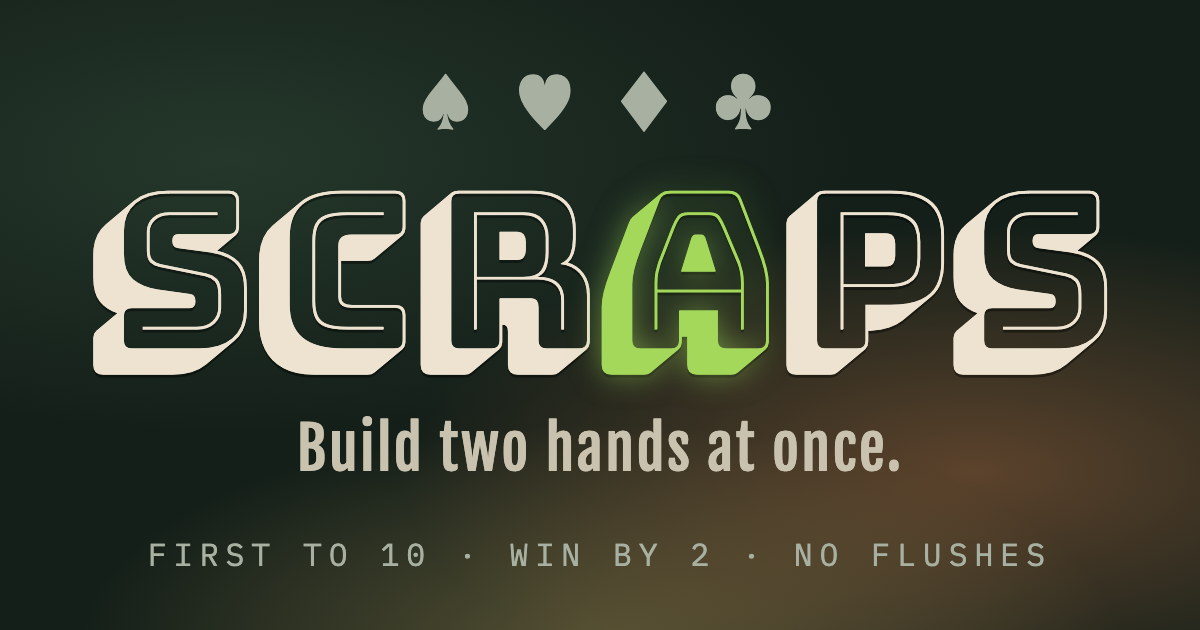
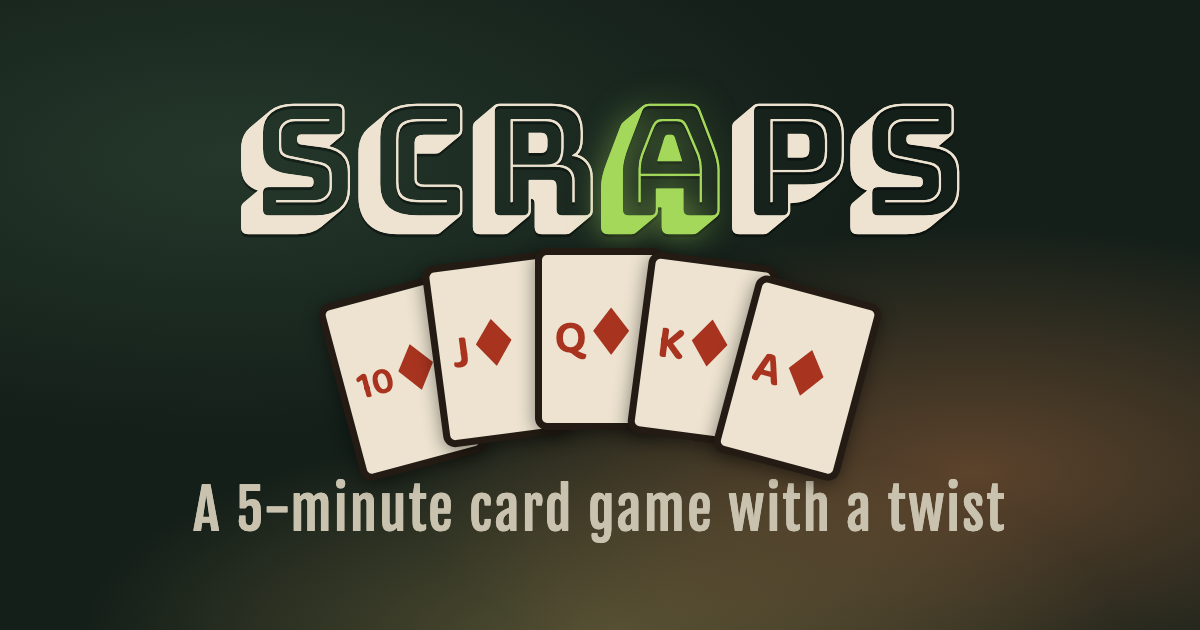
Stan's metadata copy, a hand on the share card, and win score at 10
Title is now "SCRAPS - Poker with two hands at once.", description
"This turn's discards are next turn's hand." The card's rules line is
gone — his call, "boring rules": a share card gets about a second and
the win condition is not the interesting part. In its place, a fanned
hand drawn with the same geometry and inks as the game's own
PlayingCard, under the line "A 5-minute card game with a twist".

The hand is a royal flush of diamonds, which SCRAPS does not recognise
— flushes are never valid here. Flagged before building and chosen
anyway, for the reason it was offered: it is the most legible card-game
image there is. The valid near-identical alternative (same ranks, mixed
suits, a straight, and actually the best hand in this game) stays in the
generator as HAND_STRAIGHT, one constant away.

Two things the new copy broke, caught before they shipped:

- The title now uses a hyphen, not an em dash, and WORDMARK was derived
  by splitting on the em dash. It silently took the WHOLE title as the
  product name, which would have set "SCRAPS - Poker with two hands at
  once." in Bungee Shade across the card and written it into robots.txt
  and llms.txt as the game's name. Splits on either separator now, and
  the hyphen rename is caught in six places.
- The first render put the strapline through the fan: the outer cards
  are rotated AND pushed down, so the lowest painted corner sits below
  where flex thinks the row ends. Gap now sized against the real droop.
[…]

Changed region(s): [[0.0617, 0.1206, 0.925, 0.9048]]

diff --git a/index.html b/index.html
@@ -3,8 +3,8 @@
   <head>
     <meta charset="UTF-8" />
     <meta name="viewport" content="width=device-width, initial-scale=1.0" />
-    <title>SCRAPS — Two Hands. One Table. No Mercy.</title>
-    <meta name="description" content="A card game of hidden hands, public scraps, and calculated betrayal." />
+    <title>SCRAPS - Poker with two hands at once.</title>
+    <meta name="description" content="This turn's discards are next turn's hand." />
 
     <!-- ============================================================
          FINDABILITY (Session 7)
@@ -29,16 +29,16 @@
     <meta property="og:type" content="website" />
     <meta property="og:site_name" content="SCRAPS" />
     <meta property="og:url" content="https://scraps3.vercel.app/" />
-    <meta property="og:title" content="SCRAPS — Two Hands. One Table. No Mercy." />
-    <meta property="og:description" content="A card game of hidden hands, public scraps, and calculated betrayal." />
+    <meta property="og:title" content="SCRAPS - Poker with two hands at once." />
+    <meta property="og:description" content="This turn's discards are next turn's hand." />
     <meta property="og:image" content="https://scraps3.vercel.app/og.png" />
     <meta property="og:image:width" content="1200" />
     <meta property="og:image:height" content="630" />
-    <meta property="og:image:alt" content="The SCRAPS wordmark over a dark forest-green table, above the line: first to 10, win by 2, no flushes." />
+    <meta property="og:image:alt" content="The SCRAPS wordmark over a dark forest-green table, above a fanned hand of five diamonds and the line: a 5-minute card game with a twist." />
 
     <meta name="twitter:card" content="summary_large_image" />
-    <meta name="twitter:title" content="SCRAPS — Two Hands. One Table. No Mercy." />
-    <meta name="twitter:description" content="A card game of hidden hands, public scraps, and calculated betrayal." />
+    <meta name="twitter:title" content="SCRAPS - Poker with two hands at once." />
+    <meta name="twitter:description" content="This turn's discards are next turn's hand." />
     <meta name="twitter:image" content="https://scraps3.vercel.app/og.png" />
 
     <script type="application/ld+json">
@@ -47,7 +47,7 @@
       "@type": "VideoGame",
       "name": "SCRAPS",
       "url": "https://scraps3.vercel.app/",
-      "description": "A two-player card game against an AI opponent. Two private hands worth a point each, one public Scraps pile worth two, and Aces that strip your opponent's board. First to 10, win by 2. Flushes are never valid.",
+      "description": "Poker with two hands at once. A five-minute two-player card game against an AI opponent: this turn's discards are next turn's hand. Two private hands worth a point each, one public Scraps pile worth two, and Aces that strip your opponent's board. First to 10, win by 2. Flushes are never valid.",
       "genre": "Card game",
       "gamePlatform": "Web browser",
       "playMode": "SinglePlayer",

diff --git a/PROJECT-BRIEF.md b/PROJECT-BRIEF.md
@@ -444,9 +444,9 @@ was open to more:**
 > cards, and Aces you can discard to strip your opponent's board (they can
 > counter with an Ace of their own). I built it as a real browser game
 > against an AI opponent. Every card back, icon, and the table backdrop is
-> inline SVG — no `public/` directory, no image files anywhere in the repo.
-> All sound is generated live with the Web Audio API, so there are no audio
-> files either. React, zero runtime dependencies otherwise. [link]
+> inline SVG — the game ships no image files at all. All sound is generated
+> live with the Web Audio API, so there are no audio files either. React,
+> zero runtime dependencies. [link]
 
 *r/cardgames (leads with the invented-game angle, this audience cares most
 about mechanics):*
@@ -457,7 +457,7 @@ about mechanics):*
 > Scraps hand worth 2. Move cards into your Scraps pile to draw fresh ones,
 > both piles cap at 7. Aces are a weapon — discard one to strip two cards
 > from the opponent's Scraps pile, they can counter with an Ace of their
-> own. First to 11, win by 2. Sweep both small hands and the Scraps hand in
+> own. First to 10, win by 2. Sweep both small hands and the Scraps hand in
 > one round for a Full Scrap, worth 5.] Built a browser version to actually
 > playtest it against an AI. [link] — would love feedback on the rules
 > themselves as much as the build.
@@ -469,7 +469,7 @@ about mechanics):*
 > An original card game — invented it with my wife, then built this as a
 > real playable version. Two private hands worth 1 point each, a public
 > "Scraps" pile worth 2. Aces let you strip your opponent's pile, and they
-> can counter-strip right back. First to 11, win by 2. [link] — feedback
+> can counter-strip right back. First to 10, win by 2. [link] — feedback
 > welcome, especially anything that breaks on your setup.
 
 *Friends / word of mouth:* no drafted copy needed — direct message, not a
@@ -1772,18 +1772,22 @@ and no post has been written.
 would have deployed the pre-Session-6 game. Fast-forwarded and pushed.
 Both branches were level at `51e7bef` before any work started.
 
-**The prompt was re-validated and Section 8's launch copy has two errors.**
-Not corrected — Stan's call to leave the copy alone this session — but they
-must be fixed before anything is posted:
+**The prompt was re-validated and Section 8's launch copy had two factual
+errors. Both are now FIXED** — Stan first held the copy back, then asked for
+the win score reconciled, so both were corrected in the same pass:
 
-- Two of the three drafts say **"First to 11, win by 2."** `WIN_SCORE` has
+- Two of the three drafts said **"First to 11, win by 2."** `WIN_SCORE` has
   been **10** since the 2026-08-25 reskin. The r/cardgames draft leads with
-  the full ruleset to the audience most likely to notice.
-- The Show HN draft claims **"no `public/` directory, no image files
+  the full ruleset to the audience most likely to notice. Now 10 in both.
+- The Show HN draft claimed **"no `public/` directory, no image files
   anywhere in the repo."** Session 6 created `public/fonts` and this session
-  added four more files. The "no images inside the game, no audio files"
-  claim is still true and is the one worth making; the sentence as written
-  is not.
+  added four more files. Reworded to "the game ships no image files at all",
+  which is the true and still-interesting version of the claim.
+
+**There is no "11" left anywhere in the repo.** `WIN_SCORE` is the only
+declaration of it, `hud.jsx` and the storyboard both read that constant, and
+the share card's own generator imports it — so this class of drift is now
+caught by `npm run share:check` rather than found by reading.
 
 **1. Two of Stan's four pre-launch notes were real. Two had already been
 fixed and nobody had gone back to check.** All four were measured in a real
@@ -1826,6 +1830,49 @@ pane suspends and therefore cannot show.
   `panelDeal` rewrite almost certainly fixed the original.
 - **Left-justified instruction copy. ALREADY FIXED.** The walkthrough copy
   computes `text-align: center`.
+
+**Stan rewrote the metadata copy and the share card the same day, and
+what he chose is what shipped.** The first pass kept the existing title
+and put the game's rules on the card; he cut both.
+
+| Field | Was | Is |
+|---|---|---|
+| Title | SCRAPS — Two Hands. One Table. No Mercy. | **SCRAPS - Poker with two hands at once.** |
+| Description | A card game of hidden hands, public scraps, and calculated betrayal. | **This turn's discards are next turn's hand.** |
+| Card line | FIRST TO 10 · WIN BY 2 · NO FLUSHES | **A 5-minute card game with a twist** |
+| Card art | *(none)* | **a fanned royal flush of diamonds** |
+
+His reasoning on the card line, worth keeping because it generalises:
+*"boring rules"*. A share card has about a second to be interesting and
+the win condition is not the interesting part. The rules still exist for
+the audiences that want them — `llms.txt` states the full ruleset for
+crawlers and the JSON-LD carries it for search — they are just not what
+the picture spends its one second on.
+
+**The hand on the card is a royal flush of diamonds, and it is a hand
+this game does not recognise.** Flushes are never valid in SCRAPS; a
+suited A-K-Q-J-10 scores as a plain straight. This was flagged before
+building and Stan chose it anyway, which is the right call for the
+reason it was offered: it is the most instantly legible "card game"
+image there is, and almost nobody reads a share card as a rules claim.
+The valid near-identical alternative was rendered beside it for the
+comparison — the same five ranks in mixed suits, which is a straight
+and genuinely the best hand here — and is kept in the generator as
+`HAND_STRAIGHT`, one constant away, in case the r/cardgames audience
+ever makes it worth switching.
+
+**Two things this broke that were caught rather than shipped:**
+
+- The new title uses a **hyphen**, not an em dash. `WORDMARK` was derived
+  by splitting the title on `—`, so with a hyphen it silently took the
+  ENTIRE title as the product name — which would have set
+  "SCRAPS - Poker with two hands at once." in Bungee Shade across the
+  card and written it into `robots.txt` and `llms.txt` as the game's
+  name. It splits on either separator now.
+- The first render put the strapline **through** the fan: the outer
+  cards are rotated *and* pushed down, so the lowest painted corner sits
+  well below where flex thinks the row ends. Fixed by sizing the gap
+  against the real droop rather than the card box.
 
 **2. The findability metadata, generated rather than drawn.**
 `tools/make-share-assets.mjs` reads the `<title>` from `index.html`, the
@@ -1893,7 +1940,8 @@ browser before and after.
 - The cold mobile smoke test on cellular data still has not happened —
   now for the first time not because the environment blocked it, since
   production **is** reachable from this machine.
-- Section 8's two copy errors, above.
+- ~~Section 8's two copy errors~~ — **fixed 2026-08-28**, both drafts now
+  say "First to 10" and the Show HN claim about `public/` is reworded.
 - Still open from Session 6: the `?` help button asks for Work Sans 900,
   which was never declared and renders as synthetic bold. Work Sans is
   variable and already on disk, so a real 900 face costs zero bytes.
